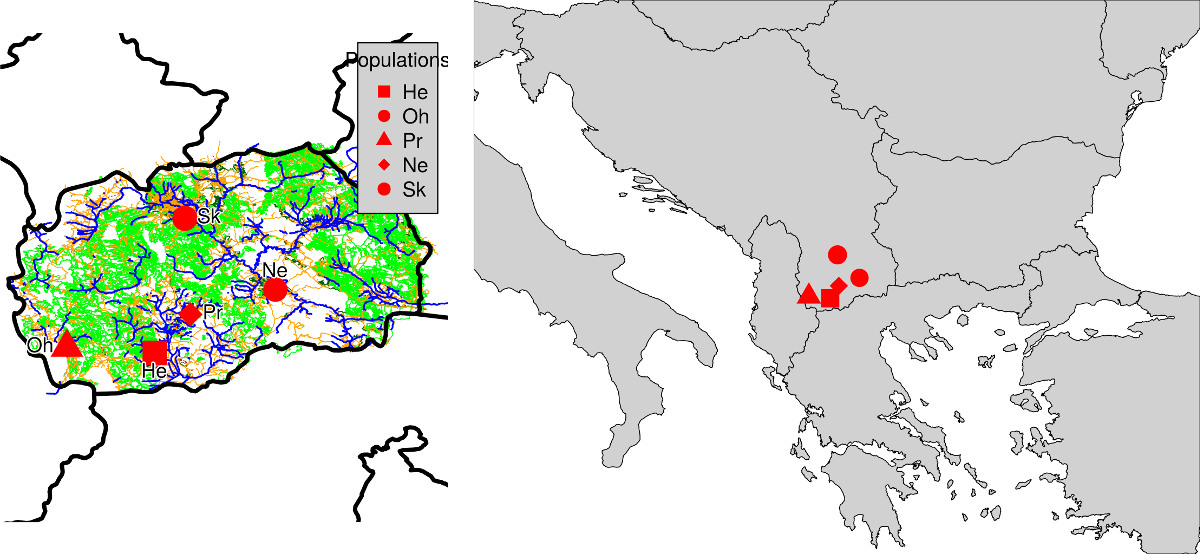
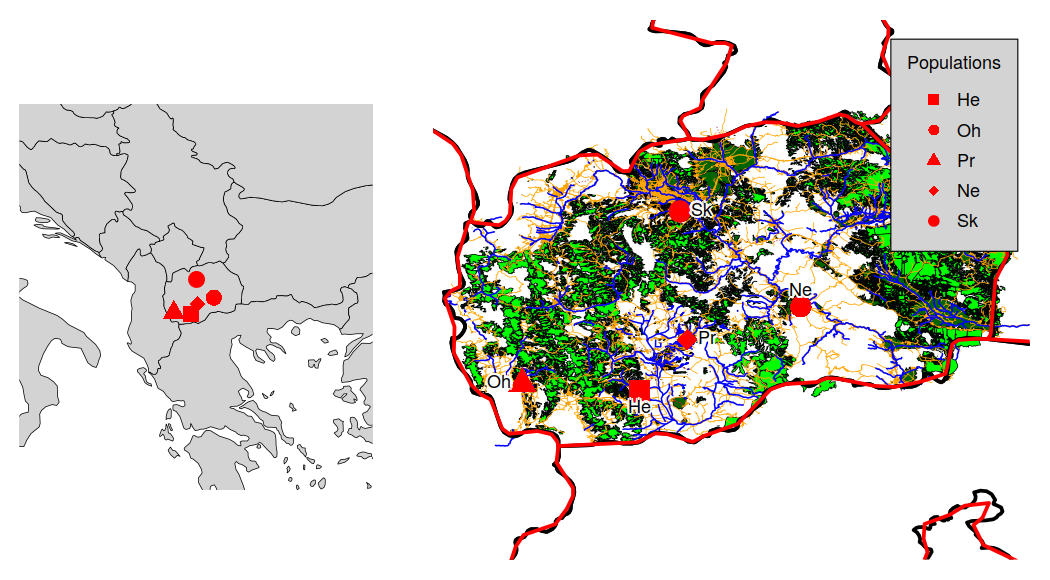
Updated and improved maps. Fixed work with Google maps. Fixed plotting of SHP.

diff --git a/presentation/r_mol_data_phylogen.tex b/presentation/r_mol_data_phylogen.tex
@@ -4392,6 +4392,18 @@
 
 \subsection{Plotting maps}
 
+\begin{frame}{Mapping overview}
+	\begin{itemize}
+		\item There are plenty of options, only some basic options are shown\ldots
+		\item Some packages offer basic (state) maps
+		\item It is possible to use various on-line maps
+		\item \href{https://en.wikipedia.org/wiki/Shapefile}{Shapefiles} (SHP) used in specialized GIS software can be used as base layer to plot points etc. to that map
+		\item Interactive maps can be created with libraries like \href{https://CRAN.R-project.org/package=leaflet}{leaflet}
+		\item It is possible to plot to maps not only point and/or text labels, but also pie charts, bar charts, or e.g. \href{http://blog.phytools.org/2019/03/projecting-phylogenetic-tree-onto-map.html}{plot phylogeny to the map}
+		\item Much more options are available in specialized mapping packages, especially with connections with GIS (e.g. \href{https://qgis.org/}{QGIS} or \href{https://grass.osgeo.org/}{GRASS GIS})
+	\end{itemize}
+\end{frame}
+
 \begin{frame}[fragile]{Very basic mapping in R}
 	\begin{spluscode}
     library(sp) # Load libraries
@@ -4399,18 +4411,18 @@
     library(TeachingDemos) # To be able to move text little bit
     library(RgoogleMaps) # Google and OpenStreetMaps
     library(mapplots) # Plot pie charts
+    library(adegenet)
     # Plot basic map with state boundaries within selected range
-    plot(x=getMap(resolution="high"), xlim=c(19, 24), ylim=c(39, 44), asp=1,
-      lwd=1.5)
+    plot(x=getMap(resolution="high"),xlim=c(19,24),ylim=c(39,44),asp=1,lwd=1.5)
     box() # Add frame around the map
     # Plot location points
-    points(x=hauss.genpop@other$xy[["lon"]], y=hauss.genpop@other$xy [["lat"]],
+    points(x=hauss.genpop@other$xy[["lon"]], y=hauss.genpop@other$xy[["lat"]],
       pch=15:19, col="red", cex=4)
     # Add text descriptions for points. Text is aside and with background
     shadowtext(x=hauss.genpop@other$xy[["lon"]], y=hauss.genpop@other$xy
-      [["lat"]], labels=as.vector(popNames(hauss.genind)), col="black", bg=
-      "white", theta=seq(pi/4, 2*pi, length.out=8), r=0.15, pos=c(1, 3, 2, 4,
-      4), offset=0.75, cex=1.5)
+      [["lat"]], labels=as.vector(popNames(hauss.genind)), col="black",
+      bg="white", theta=seq(pi/4, 2*pi, length.out=8), r=0.15, pos=c(1,
+      3, 2, 4, 4), offset=0.75, cex=1.5)
 	\end{spluscode}
 \end{frame}
 
@@ -4426,68 +4438,43 @@
 	\end{center}
 \end{frame}
 
-\begin{frame}[fragile]{Google map}
+\begin{frame}[fragile]{Google map basics}
 	\begin{multicols}{2}
 		\begin{spluscode}
-    # Google map is produced into a
-    # file. Parameter markers contain
-    # data frame with coordinates and
-    # possibly with more information
-    hauss.gmap <- GetMap(center=c(lat=
-      41, lon=21), size=c(640, 640),
-      destfile="gmap.png", zoom=8,
-      markers=hauss.coord, maptype=
-      "terrain", API_console_key="XXX")
-    # Plot the map
-    PlotOnStaticMap(MyMap=hauss.gmap)
+    # Basic help for Google maps
+    ?GetMap
+    ?PlotOnStaticMap
 		\end{spluscode}
 		\begin{itemize}
-			\item Google recently started to require \href{https://developers.google.com/maps/documentation/maps-static/intro}{API key}, it doesn't work without it\ldots
+			\item For larger/complex maps Google requires \href{https://developers.google.com/maps/documentation/maps-static/intro}{API key}
 			\item See \href{https://rgooglemaps.r-forge.r-project.org/}{documentation} and more options, it can use plenty of map resources (Bing maps,~\ldots)
+			\item Map is first downloaded with \texttt{GetMap()} into R object, and then plotted with \texttt{PlotOnStaticMap()} or with another function
 			\item Many on-line map services do require (paid) API key\ldots
 		\end{itemize}
 		\begin{center}
-			\includegraphics[height=4.5cm]{gmap1.jpg}
+			\includegraphics[height=6.5cm]{gmap.jpg}
 		\end{center}
 	\end{multicols}
 \end{frame}
 
-\begin{frame}[fragile]{More options for Google map}
-	\begin{multicols}{2}
-		\begin{spluscode}
-    hauss.gmap2 <- GetMap(center=c(
-      lat=41, lon=21), size=c(640,
-      640), destfile="gmap2.png",
-      zoom=8, maptype="satellite",
-      API_console_key="XXX")
-    PlotOnStaticMap(MyMap=hauss.gmap2,
-      lat=hauss.genpop@other$xy[["lat"
-      ]], lon=hauss.genpop@other$xy
-      [["lon"]], FUN=points, pch=19,
-      col="blue", cex=5)
-    PlotOnStaticMap(MyMap=hauss.gmap2,
-      lat=hauss.genpop@other$xy[["lat"
-      ]], lon=hauss.genpop@other$xy
-      [["lon"]], add=TRUE, FUN=points,
-      pch=19, col="red", cex=3)
-    PlotOnStaticMap(MyMap=hauss.gmap2,
-      lat=hauss.genpop@other$xy[["lat"
-      ]], lon=hauss.genpop@other$xy
-		\end{spluscode}
-		\begin{spluscode}
-      [["lon"]], add=TRUE, FUN=text,
-      labels=as.vector(popNames(
-      hauss.genind)), pos=4, cex=3,
-      col="white")
-    # Google maps have their own
-    # internal scaling, adding of
-    # points by standard functions
-    # will not work correctly
-		\end{spluscode}
-		\begin{center}
-			\includegraphics[height=3.5cm]{gmap2.jpg}
-		\end{center}
-	\end{multicols}
+\begin{frame}[fragile]{Plotting Google map}
+	\begin{spluscode}
+    # Download map
+    hauss.gmap <- GetMap(center=c(lat=41, lon=21), size=c(640, 640),
+      destfile="gmap.png", zoom=8, maptype="satellite")
+    # Plot saved map, with extra data
+    PlotOnStaticMap(MyMap=hauss.gmap, lat=hauss.genpop@other$xy[["lat"]],
+      lon=hauss.genpop@other$xy[["lon"]], FUN=points, pch=19, col="blue",
+      cex=5)
+    PlotOnStaticMap(MyMap=hauss.gmap, lat=hauss.genpop@other$xy[["lat"]],
+      lon=hauss.genpop@other$xy[["lon"]], add=TRUE, FUN=points, pch=19,
+      col="red", cex=3)
+    PlotOnStaticMap(MyMap=hauss.gmap, lat=hauss.genpop@other$xy[["lat"]],
+      lon=hauss.genpop@other$xy[["lon"]], add=TRUE, FUN=text,
+      labels=as.vector(popNames(hauss.genind)), pos=4, cex=3, col="white")
+    # Google maps have their own internal scaling, adding of points by
+    # standard functions will not work correctly
+	\end{spluscode}
 \end{frame}
 
 \begin{frame}[fragile]{Adding pie charts to map I}
@@ -4505,42 +4492,52 @@
     plot(x=getMap(resolution="high"),xlim=c(20,23),ylim=c(41,42),asp=1,lwd=1.5)
     box() # Add frame around the map
     # Plot the pie charts
-    for (L in 1:5) { add.pie(z=hauss.pie[L,], x=as.vector(hauss.genpop@other
-      $xy[["lon"]])[L], y=as.vector(hauss.genpop@other$xy[["lat"]])[L],
-      labels=names(hauss.pie[L,]), radius=0.1, col=topo.colors(3)) }
-    ?add.pie # See more options
+    for (L in 1:5) { add.pie(z=hauss.pie[L,], x=as.vector(
+      hauss.genpop@other$xy[["lon"]])[L], y=as.vector(
+      hauss.genpop@other$xy[["lat"]])[L], labels=names(hauss.pie[L,]),
+      radius=0.1, col=topo.colors(3)) }
 	\end{spluscode}
 \end{frame}
 
 \begin{frame}[fragile]{Adding pie charts to map II}
-	\begin{spluscode}
+	\begin{multicols}{2}
+		\begin{spluscode}
+    ?add.pie # See more options
     # Add population labels
-    text(x=hauss.genpop@other$xy[["lon"]], y=hauss.genpop@other$xy[["lat"]],
-      labels=as.vector(popNames(hauss.genind)), col="red", cex=2)
-	\end{spluscode}
-	\begin{center}
-		\includegraphics[height=5cm]{map_pie.png}
-	\end{center}
+    text(
+      x=hauss.genpop@other$xy[["lon"]],
+      y=hauss.genpop@other$xy[["lat"]],
+      labels=
+      as.vector(popNames(hauss.genind)),
+      col="red", cex=2)
+		\end{spluscode}
+		\begin{itemize}
+			\item As usually, play with colours and display options\ldots
+		\end{itemize}
+		\begin{center}
+			\includegraphics[height=6cm]{map_pie.png}
+		\end{center}
+	\end{multicols}
 \end{frame}
 
 \begin{frame}[fragile]{Pie charts on Google map I}
 	\begin{spluscode}
     # Prepare list to store recalculated coordinates
-    hauss.gmap2.coord <- list()
+    hauss.gmap.coord <- list()
     # Calculation of coordinates to form required by Google Maps
-    for (LC in 1:5) { hauss.gmap2.coord[[LC]] <- LatLon2XY.centered(MyMap=
-      hauss.gmap2, lat=as.vector(hauss.genpop@other$xy[["lat"]])[LC],
+    for (LC in 1:5) { hauss.gmap.coord[[LC]] <- LatLon2XY.centered(MyMap=
+      hauss.gmap, lat=as.vector(hauss.genpop@other$xy[["lat"]])[LC],
       lon=as.vector(hauss.genpop@other$xy[["lon"]])[LC], zoom=8) }
-    hauss.gmap2.coord # See result
+    hauss.gmap.coord # See result
     # Plot plain map
-    PlotOnStaticMap(MyMap=hauss.gmap2)
+    PlotOnStaticMap(MyMap=hauss.gmap)
     # Plot pie charts
-    for (LP in 1:5) { add.pie(z=hauss.pie[LP,], x=hauss.gmap2.coord[[LP]]
-      $newX, y=hauss.gmap2.coord[[LP]]$newY, labels=names(hauss.pie[LP,]),
+    for (LP in 1:5) { add.pie(z=hauss.pie[LP,], x=hauss.gmap.coord[[LP]]
+      $newX, y=hauss.gmap.coord[[LP]]$newY, labels=names(hauss.pie[LP,]),
       radius=25, col=topo.colors(n=3, alpha=0.7)) }
     # Alternative option to plot pie charts
-    for (LF in 1:5) { plotrix::floating.pie(xpos=hauss.gmap2.coord[[LF]]
-      $newX, ypos=hauss.gmap2.coord[[LF]]$newY, x=hauss.pie[LF,], radius=30,
+    for (LF in 1:5) { plotrix::floating.pie(xpos=hauss.gmap.coord[[LF]]
+      $newX, ypos=hauss.gmap.coord[[LF]]$newY, x=hauss.pie[LF,], radius=30,
       col=heat.colors(n=3, alpha=0.5) ) }
 	\end{spluscode}
 \end{frame}
@@ -4548,12 +4545,12 @@
 \begin{frame}[fragile]{Pie charts on Google map II}
 	\begin{spluscode}
     # Add population text labels
-    PlotOnStaticMap(MyMap=hauss.gmap2, lat=hauss.genpop@other$xy[["lat"]],
+    PlotOnStaticMap(MyMap=hauss.gmap, lat=hauss.genpop@other$xy[["lat"]],
       lon=hauss.genpop@other$xy[["lon"]], add=TRUE, FUN=text,
       labels=as.vector(popNames(hauss.genind)), cex=2.5, col="white")
 	\end{spluscode}
 	\begin{center}
-		\includegraphics[height=4.5cm]{map_pie_google.png}
+		\includegraphics[height=4.5cm]{map_pie_google.jpg}
 	\end{center}
 \end{frame}
 
@@ -4568,7 +4565,7 @@
     # Convert latitude/longitude into projected coordinates
     # Plot a map, check parameters
     # Check among others "projection" and ?mapproject for its details
-    map(database="worldHires", boundary=TRUE, interior=TRUE, fill=TRUE,
+    map(database="world", boundary=TRUE, interior=TRUE, fill=TRUE,
       col="lightgrey", plot=TRUE, xlim=c(16, 27), ylim=c(37, 46))
     # If you'd use projection, use mapproject to convert also coordinates!
     ?mapproject # See for details
@@ -4580,32 +4577,30 @@
 \begin{frame}[fragile]{Plotting on SHP files I}
 	\begin{itemize}
 		\item \href{https://en.wikipedia.org/wiki/Shapefile}{Shapefile} (SHP) is common format for geographical data
-		\item Get SHP files from \url{https://soubory.trapa.cz/rcourse/macedonia.zip} and unpack them into R working directory
-		\item Data were originally downloaded from \url{https://download.geofabrik.de/europe/macedonia.html}
+		\item Get SHP files from \url{https://soubory.trapa.cz/rcourse/macedonia.zip} (from \url{https://download.geofabrik.de/europe/macedonia.html}) and unpack them into R working directory
 		\item R working directory has to contain also respective DBF and SHX files (same name, only different suffix)
 	\end{itemize}
 	\begin{spluscode}
     library(maptools)
+    library(rgdal)
     dir() # Verify required files are unpacked in the working directory
-    # There are several functions readShape* - select appropriate
-    # according to data stored in respective SHP file
     # Check correct import by plotting all layers
-    macedonia_building <- readShapeLines(fn="macedonia_buildings.shp")
-    plot(macedonia_building) # Continues on next slide...
+    macedonia_building <- readOGR(dsn="macedonia_buildings.shp")
+    plot(macedonia_building)
+    macedonia_landuse <- readOGR(dsn="macedonia_landuse.shp")
+    plot(macedonia_landuse)
 	\end{spluscode}
 \end{frame}
 
 \begin{frame}[fragile]{Plotting on SHP files II}
 	\begin{spluscode}
-    macedonia_landuse <- readShapeLines(fn="macedonia_landuse.shp")
-    plot(macedonia_landuse)
-    macedonia_natural <- readShapeLines(fn="macedonia_natural.shp")
+    macedonia_natural <- readOGR(dsn="macedonia_natural.shp")
     plot(macedonia_natural)
-    macedonia_railways <- readShapeLines(fn="macedonia_railways.shp")
+    macedonia_railways <- readOGR(dsn="macedonia_railways.shp")
     plot(macedonia_railways)
-    macedonia_roads <- readShapeLines(fn="macedonia_roads.shp")
+    macedonia_roads <- readOGR(dsn="macedonia_roads.shp")
     plot(macedonia_roads)
-    macedonia_waterways <- readShapeLines(fn="macedonia_waterways.shp")
+    macedonia_waterways <- readOGR(dsn="macedonia_waterways.shp")
     plot(macedonia_waterways)
     # Plot all layers into single image, add more information
     plot(macedonia_building)
@@ -4613,7 +4608,8 @@
     plot(macedonia_natural, add=TRUE, col="green", fill=TRUE)
     plot(macedonia_railways, add=TRUE, col="brown", lty="dotted")
     plot(macedonia_roads, add=TRUE, col="orange")
-    plot(macedonia_waterways, add=TRUE, col="blue", lwd=2) # Ends on next slide
+    plot(macedonia_waterways, add=TRUE, col="blue", lwd=2)
+    # Now we can add few more data, next slide
 	\end{spluscode}
 \end{frame}
 
@@ -4622,11 +4618,11 @@
     # Add state boundaries
     plot(x=getMap(resolution="high"), xlim=c(19, 24), ylim=c(39, 44), asp=1,
       lwd=5, add=TRUE) # Or e.g.
-    map(database="worldHires", boundary=TRUE, interior=TRUE, fill=FALSE,
+    map(database="world", boundary=TRUE, interior=TRUE, fill=FALSE,
       col="red", add=TRUE, plot=TRUE, xlim=c(16, 27), ylim=c(37, 46), lwd=5)
     # Add sampling points
-    points(x=hauss.genpop@other$xy[["lon"]], y=hauss.genpop@other$
-      xy[["lat"]], pch=15:19, col="red", cex=4)
+    points(x=hauss.genpop@other$xy[["lon"]],
+      y=hauss.genpop@other$xy[["lat"]], pch=15:19, col="red", cex=4)
     # Add description of sampling points
     shadowtext(x=hauss.genpop@other$xy[["lon"]], y=hauss.genpop@other$
       xy[["lat"]], labels=as.vector(popNames(hauss.genind)), col="black",
@@ -4634,23 +4630,27 @@
       pos=c(1, 3, 2, 4, 4), offset=0.75, cex=1.5)
     # Add legend
     legend(x="topright", inset=1/50, legend=c("He", "Oh", "Pr", "Ne", "Sk"),
-      col="red", border="black", pch=15:19, pt.cex=2, bty="o", bg="lightgrey",
-      box.lwd=1.5, cex=1.5, title="Populations")
+      col="red", border="black", pch=15:19, pt.cex=2, bty="o",
+      bg="lightgrey", box.lwd=1.5, cex=1.5, title="Populations")
 	\end{spluscode}
 \end{frame}
 
 \begin{frame}{Plotting on SHP files IV and maps from mapproj}
 	\begin{center}
-		\includegraphics[width=\textwidth-2cm]{mapy.png}
+		\includegraphics[width=\textwidth-3.5cm]{mapy.png}
 	\end{center}
 \end{frame}
 
 \subsection{Tasks}
 
-\begin{frame}{Practicing working with spatial data}
+\begin{frame}{Practicing work with spatial data}
 	\begin{exampleblock}{Tasks}
 		\begin{enumerate}
-			\item 
+			\item Try some with the spatial analysis with adegenet's alpine \textit{Rupicapra} dataset (see \texttt{?adegenet::rupica}), or cats from Nancy (see \texttt{?adegenet::nancycats}), or with any other (your) data.
+			\item Plot some of the above dataset, or some your data to map. Try several mapping options.
+			\item Which problems can you encounter when doing spatial analysis or plotting maps over large spatial scale (level of continents and above), close to equator or in polar regions?
+			\item What are possible problems when computing distances among sampling sites?
+			\item Search the Internet for another options how to plot maps in R which could be suitable for your data.
 		\end{enumerate}
 	\end{exampleblock}
 \end{frame}
